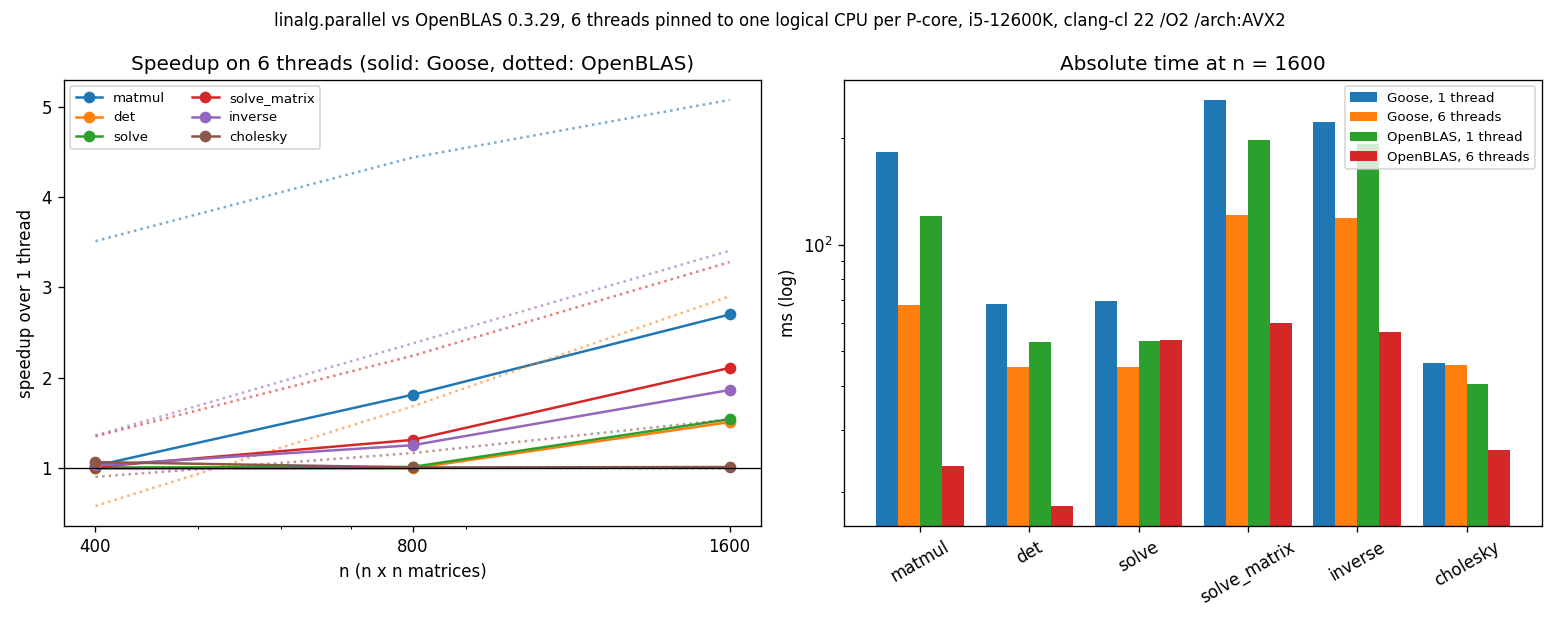
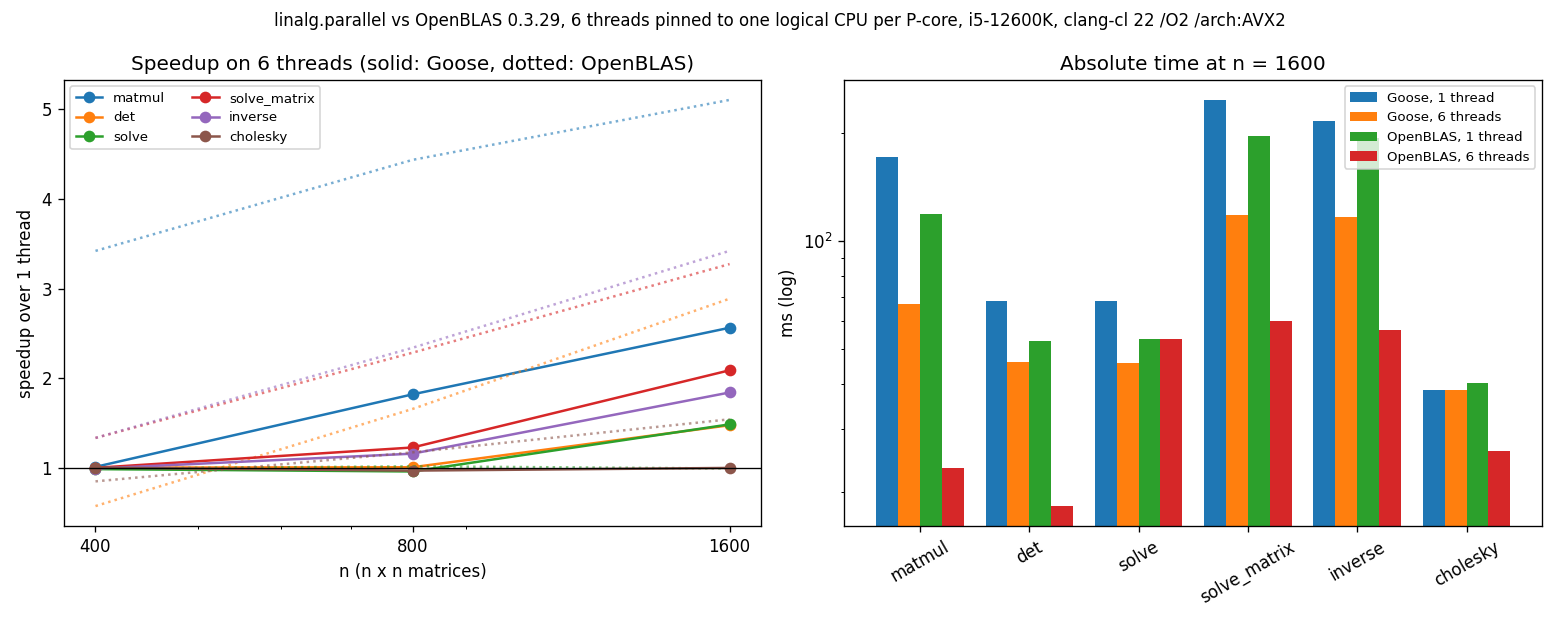
cholesky_mt back to serial speed; README and plots for v0.3.1's numbers
v0.3.1's serial cholesky took its trailing updates in strips of 32 rows,
but cholesky_mt kept strips of 256, tall enough for gemm_mt to share, and
with them half of each 256 x 256 diagonal block computed and thrown away.
On 6 threads it ran 0.85-0.91x of serial cholesky at n = 400-1600. A tall
strip now takes the rectangle left of its diagonal block through G and
the diagonal block through gemm_acc in strips of 32; cholesky_mt runs at
0.97-1.01x of serial. Every call still starts a multiple of four rows
into the update, so results are unchanged, and cholesky_mt still equals
cholesky bit for bit.

README: the single-threaded and multithreaded tables, the comparisons
under them, and the plain-build and /fp:fast figures, from a fresh run of
run_pinned.ps1; the note on a stalled OpenBLAS run is gone, as no run
stalled.

diff --git a/README.md b/README.md
@@ -69,8 +69,8 @@ first, until `goose fetch --update`.
 - `cholesky` is blocked the same way, as `potrf`: 32-column panels within 256-column outer
   blocks, each level updating its trailing lower triangle with matrix multiplies. Like the LU,
   each panel is factored in a column-major copy. The trailing updates run in strips of 32 rows,
-  so they compute little of the triangle above the diagonal (`cholesky_mt` keeps strips of 256,
-  tall enough to share).
+  so they compute little of the triangle above the diagonal. `cholesky_mt` keeps strips of 256
+  rows, tall enough to share, and takes each strip's diagonal block in strips of 32.
 - `qr` uses Householder reflections, blocked as `geqrf`/`orgqr` with the compact WY form. The 32
   reflectors of a panel combine into I − V·T·Vᵀ, so the rest of R, and later Q, take each block
   as two matrix multiplies. `lstsq` solves through QR and refuses rank-deficient input rather
@@ -118,7 +118,7 @@ targets baseline x86-64 (SSE2).
 
 - **Under clang:** `linalg`'s hot kernels are `simd fn`s. Goose builds each for baseline x86-64
   and again for AVX2 and AVX-512, and picks the widest the CPU has at run time. A plain
-  `goose build` therefore ran within 2% of a build with AVX2 throughout (6% for `cholesky`), and
+  `goose build` therefore ran within 3% of a build with AVX2 at n = 400 and 6% at smaller sizes, and
   the matrix multiply ran at twice the speed it gets without `simd`.
 - **Under MSVC:** `simd` does nothing (Goose builds one version), so enable AVX2 yourself before
   building:
@@ -137,7 +137,7 @@ targets baseline x86-64 (SSE2).
 
 Don't use `/fp:fast` or `-ffast-math`. Under clang they do bring FMA back. The disassembly
 showed 2,124 vector FMA instructions against none, and the matrix multiply took 26% less time at
-n = 400, at 69 GFLOP/s, ahead of OpenBLAS's 62. But they break IEEE semantics: under `/fp:fast`, MSVC folds `1.0 / 0.0` to
+n = 400, at 68 GFLOP/s, ahead of OpenBLAS's 62. But they break IEEE semantics: under `/fp:fast`, MSVC folds `1.0 / 0.0` to
 `1e300`, and checks for NaN and infinity stop working. One check in the test suite fails under
 it. It also ends `linalg.parallel`'s bit-for-bit match with the serial results: fast-math lets
 the compiler build the worker threads' copy of the kernel with a different summation order.
@@ -207,7 +207,9 @@ In practice:
   least half as many columns as rows. With fewer right-hand sides, sending every worker the
   factored matrix costs more than the solves: at n = 1600 on 6 threads, 39 ms against 4 ms serial
   for 16 columns. So narrower `b` share their products through `gemm_mt`.
-- `cholesky_mt` shares its outer updates through `gemm_mt`, from about n = 1000.
+- `cholesky_mt` shares the part of its outer updates left of the diagonal through `gemm_mt`. On 6
+  threads it ran at serial speed up to n = 1600: the serial factorization is fast enough that
+  the copies eat what sharing saves.
 - Up to n = 256 the factorizations are the serial code.
 - `qr`, `lstsq`, `eigh` and `svd` have no `_mt` versions. Their products are blocks of 32
   reflectors, too narrow ever to pay for the copies.
@@ -218,12 +220,12 @@ The thresholds come from 2, 3, 4 and 6 threads on the test machine:
   worker can't hide the serial panels.
 - **Solves:** owner-computes won from n = 600 on every thread count.
 
-An `_mt` function ran at most 3% slower than its serial version, within noise, in these runs:
+An `_mt` function ran at most 4% slower than its serial version, within noise, in these runs:
 - every `_mt` function at n = 400, 800 and 1600 on 6 threads;
 - the LU factorization from n = 600 to 1400 on 2, 3, 4 and 6 threads;
 - `solve_matrix_mt` and `inverse_mt` from n = 400 to 1000 on 2, 3, 4 and 6 threads.
 
-The worst case was `cholesky_mt` at 0.97×. Where there is enough work to share, the `_mt`
+The worst case was `solve_mt` at 0.96× at n = 800. Where there is enough work to share, the `_mt`
 functions are faster.
 
 On a CPU with performance and efficiency cores, set the thread count to the number of performance
@@ -241,7 +243,7 @@ race.
 | Memory | 32 GB DDR5-6200 (2 × 16 GB Corsair Vengeance, CMK32GX5M2B6200C36) |
 | Board | ASUS ROG STRIX Z690-I GAMING WIFI |
 | OS | Windows 11 Home 23H2 (build 22631), High performance power plan |
-| Goose | v2026.3, compiled by clang-cl 22.1.3 (Visual Studio 2026) with `/O2 /arch:AVX2`. A plain `goose build`, where `simd` picks the AVX2 kernels at run time, measured within 2% (6% for `cholesky`). |
+| Goose | v2026.3, compiled by clang-cl 22.1.3 (Visual Studio 2026) with `/O2 /arch:AVX2`. A plain `goose build`, where `simd` picks the AVX2 kernels at run time, measured within 3% at n = 400 and 6% at smaller sizes. |
 | Reference | NumPy 2.2.6 on Python 3.12.0, linked to OpenBLAS 0.3.29 (`DYNAMIC_ARCH`, which picks AVX2/FMA kernels on this CPU) |
 | Pinning | Single-threaded runs on logical CPU 4, a performance core. Multithreaded runs use 6 threads pinned to logical CPUs 0, 2, 4, 6, 8 and 10, one per performance core. Unpinned, or on all 16 logical CPUs, OpenBLAS's LU ran more than 100× slower than on one thread. |
 
@@ -256,16 +258,16 @@ absolute times at n = 400:
 
 | | matmul | solve | inverse | cholesky | qr | eigh | svd |
 |---|---|---|---|---|---|---|---|
-| Goose | 2.5 ms | 1.27 ms | 3.7 ms | 1.0 ms | 5.5 ms | 11.9 ms | 24.6 ms |
-| OpenBLAS | 2.0 ms | 1.28 ms | 4.4 ms | 1.1 ms | 6.1 ms | 11.3 ms | 22.3 ms |
-| ratio | 1.23× | 0.99× | 0.82× | 0.93× | 0.89× | 1.05× | 1.10× |
+| Goose | 2.5 ms | 1.26 ms | 3.6 ms | 0.78 ms | 5.4 ms | 12.0 ms | 24.5 ms |
+| OpenBLAS | 2.1 ms | 1.30 ms | 4.4 ms | 1.10 ms | 6.1 ms | 11.1 ms | 21.7 ms |
+| ratio | 1.22× | 0.97× | 0.83× | 0.71× | 0.88× | 1.08× | 1.13× |
 
 At n = 400:
 - `solve`, `det` and `matvec` match OpenBLAS, and `inverse`, `cholesky` and `qr` beat it.
 - `matmul` runs at 51 GFLOP/s against OpenBLAS's 62. It is the furthest behind, at 1.2–1.4× at
   every size, because Goose's C never uses FMA (see Building for speed).
-- The middle sizes are the next gap: at n = 100–200, `solve` and `det` are 1.15× behind, and
-  `cholesky` 1.16× at n = 200 (it is ahead at n = 100).
+- The middle sizes are the next gap: at n = 200, `solve`, `det` and `cholesky` are 1.15–1.17×
+  behind. At n = 100, `solve` and `det` are 1.05× behind and `cholesky` is ahead.
 
 At n = 50, almost everything is faster than NumPy, whose call overhead dominates there.
 
@@ -296,24 +298,21 @@ Times at n = 1600, and the speedups on 6 threads over 1:
 
 | n = 1600 | matmul | det | solve | solve_matrix | inverse | cholesky |
 |---|---|---|---|---|---|---|
-| Goose, 1 thread | 183 ms | 68 ms | 70 ms | 256 ms | 221 ms | 46 ms |
-| Goose, 6 threads | 68 ms | 45 ms | 45 ms | 121 ms | 119 ms | 46 ms |
-| speedup | **2.7×** | 1.5× | 1.5× | **2.1×** | **1.9×** | 1.0× |
-| OpenBLAS, 1 thread | 120 ms | 53 ms | 54 ms | 197 ms | 193 ms | 40 ms |
-| OpenBLAS, 6 threads | 24 ms | 18 ms | 54 ms | 60 ms | 57 ms | 26 ms |
+| Goose, 1 thread | 171 ms | 68 ms | 68 ms | 248 ms | 216 ms | 39 ms |
+| Goose, 6 threads | 67 ms | 46 ms | 46 ms | 118 ms | 117 ms | 39 ms |
+| speedup | **2.6×** | 1.5× | 1.5× | **2.1×** | **1.8×** | 1.0× |
+| OpenBLAS, 1 thread | 119 ms | 53 ms | 53 ms | 197 ms | 194 ms | 40 ms |
+| OpenBLAS, 6 threads | 23 ms | 18 ms | 53 ms | 60 ms | 57 ms | 26 ms |
 | speedup | 5.1× | 2.9× | 1.0× | 3.3× | 3.4× | 1.5× |
 
-On one thread Goose is 1.15–1.5× behind OpenBLAS at this size, more than at n = 400, where the
-matrices fit in cache. On six it is 1.7–2.9× behind, because OpenBLAS's threads share the matrix
-in memory while Goose's copy what they work on. The exception is `solve`, where Goose is 16%
-ahead: OpenBLAS doesn't speed it up on more threads at this size.
+On one thread Goose is 1.1–1.45× behind OpenBLAS at this size, more than at n = 400, where the
+matrices fit in cache; `cholesky` is level. On six it is 1.5–2.9× behind, because OpenBLAS's
+threads share the matrix in memory while Goose's copy what they work on. The exception is
+`solve`, where Goose takes 14% less time: OpenBLAS doesn't speed it up on more threads at this
+size.
 
-At n = 800, `matmul` gains 1.8×, `solve_matrix` 1.31× and `inverse` 1.25×. The rest run at
+At n = 800, `matmul` gains 1.8×, `solve_matrix` 1.23× and `inverse` 1.16×. The rest run at
 serial speed.
-
-One run of OpenBLAS on six threads stalled despite the pinning (its `det` took 332 ms at
-n = 1600 instead of 18), as unpinned runs do. Two repeats were normal, and the table uses the
-second.
 
 ### Reproducing
 
